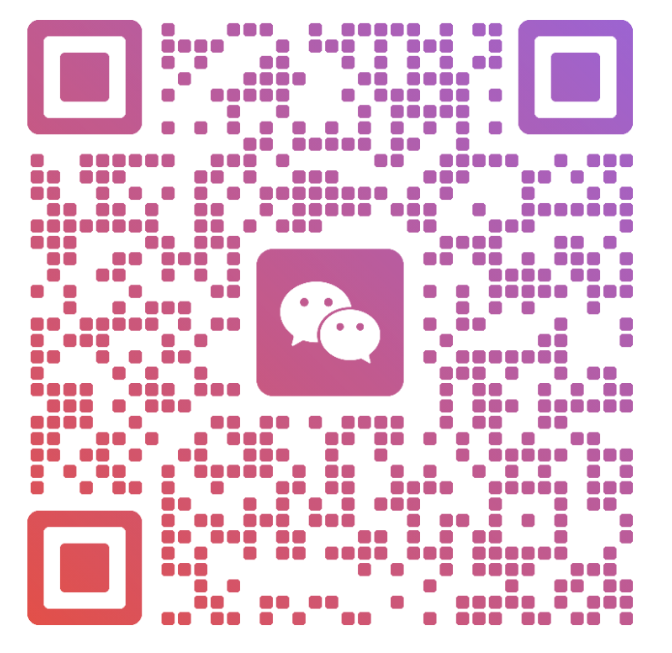
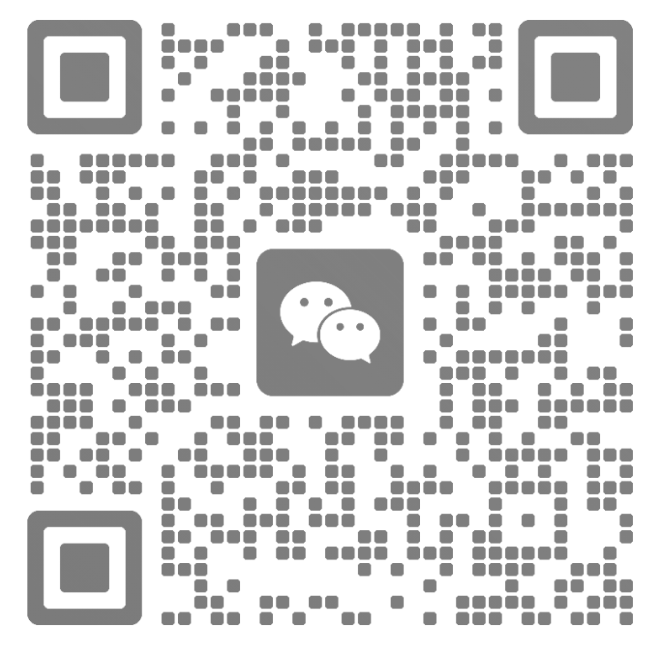
perf: 图片本地化与 WebP 压缩，首屏体积降79%
图片问题占dist 总体积的 95%，是 Cloudflare 上访问慢的主因。

- 三张基地大图 1706x1279 转 WebP 1280x960，2960KB -> 369KB
- 首屏/About 图从 Pexels 外链改为本地 WebP，去掉跨境请求
- 二维码保持原始像素尺寸（缩到 512px 会扫不出来），仅转灰度
  + optimize，602KB -> 148KB
- 首屏图加 fetchPriority="high"，其余图加 loading="lazy" 与显式
  width/height
- index.html：lang en -> zh-CN；og:image 从 bolt.new 默认图换成本地图
  （此前分享到微信会带 Bolt 标识）；favicon 从 404 的 /vite.svg 改为
  自建 SVG；补充 title/description/keywords/og 标签；预加载首屏图
- 移除未被引用的 @supabase/supabase-js 依赖

dist 3.7MB -> 773KB。typecheck 与 build 均通过。

diff --git a/index.html b/index.html
@@ -1,13 +1,31 @@
 <!doctype html>
-<html lang="en">
+<html lang="zh-CN">
   <head>
     <meta charset="UTF-8" />
-    <link rel="icon" type="image/svg+xml" href="/vite.svg" />
+    <link rel="icon" type="image/svg+xml" href="/favicon.svg" />
     <meta name="viewport" content="width=device-width, initial-scale=1.0" />
-    <title>Nbyte Air Corporate Website</title>
-    <meta property="og:image" content="https://bolt.new/static/og_default.png" />
+    <title>新字节航空 Nbyte Air | 潍坊 CAAC 无人机驾驶员培训基地</title>
+    <meta
+      name="description"
+      content="新字节航空是位于山东潍坊的专业多旋翼无人机驾驶员培训基地，提供 CAAC 执照培训、真机实操、考证推荐与无人机设备组装出口服务。"
+    />
+    <meta name="keywords" content="无人机培训,CAAC 执照,多旋翼,无人机驾驶员,潍坊,新字节航空,Nbyte Air" />
+    <link rel="preload" as="image" href="/images/hero.webp" fetchpriority="high" />
+    <meta property="og:type" content="website" />
+    <meta property="og:site_name" content="新字节航空 Nbyte Air" />
+    <meta property="og:title" content="新字节航空 |专业的多旋翼无人机驾驶员培训基地" />
+    <meta
+      property="og:description"
+      content="立足潍坊，辐射全国。从理论到实操，助您掌握低空经济核心技能。"
+    />
+    <meta property="og:image" content="/images/hero.webp" />
     <meta name="twitter:card" content="summary_large_image" />
-    <meta name="twitter:image" content="https://bolt.new/static/og_default.png" />
+    <meta name="twitter:title" content="新字节航空 | 专业的多旋翼无人机驾驶员培训基地" />
+    <meta
+      name="twitter:description"
+      content="立足潍坊，辐射全国。从理论到实操，助您掌握低空经济核心技能。"
+    />
+    <meta name="twitter:image" content="/images/hero.webp" />
   </head>
   <body>
     <div id="root"></div>

diff --git a/src/components/Base.tsx b/src/components/Base.tsx
@@ -16,6 +16,10 @@ export default function Base() {
                   <img
                     src={baseImages[0].src}
                     alt={baseImages[0].alt}
+                    width={1280}
+                    height={960}
+                    loading="lazy"
+                    decoding="async"
                     className="h-56 w-full object-cover sm:h-full sm:min-h-[420px]"
                   />
                 </div>
@@ -30,6 +34,10 @@ export default function Base() {
                   <img
                     src={baseImages[1].src}
                     alt={baseImages[1].alt}
+                    width={1280}
+                    height={960}
+                    loading="lazy"
+                    decoding="async"
                     className="h-40 w-full object-cover sm:h-[200px]"
                   />
                 </div>
@@ -44,6 +52,10 @@ export default function Base() {
                   <img
                     src={baseImages[2].src}
                     alt={baseImages[2].alt}
+                    width={1280}
+                    height={960}
+                    loading="lazy"
+                    decoding="async"
                     className="h-40 w-full object-cover sm:h-[200px]"
                   />
                 </div>

diff --git a/src/data.ts b/src/data.ts
@@ -21,17 +21,15 @@ export const navLinks = [
   { label: '联系我们', id: 'contact' },
 ];
 
-export const heroImage =
-  'https://images.pexels.com/photos/442589/pexels-photo-442589.jpeg?auto=compress&cs=tinysrgb&w=1920';
+export const heroImage = '/images/hero.webp';
 
 export const baseImages = [
-  { src: '/images/base-practice.jpg', alt: '户外真机实操训练', caption: '户外真机实操训练' },
-  { src: '/images/base-flight.jpg', alt: '实飞演示与考核', caption: '实飞演示与考核' },
-  { src: '/images/base-classroom.jpg', alt: '理论授课与设备装调', caption: '理论授课与设备装调' },
+  { src: '/images/base-practice.webp', alt: '户外真机实操训练', caption: '户外真机实操训练', loading: 'lazy' },
+  { src: '/images/base-flight.webp', alt: '实飞演示与考核', caption: '实飞演示与考核', loading: 'lazy' },
+  { src: '/images/base-classroom.webp', alt: '理论授课与设备装调', caption: '理论授课与设备装调', loading: 'lazy' },
 ];
 
-export const aboutImage =
-  'https://images.pexels.com/photos/8459532/pexels-photo-8459532.jpeg?auto=compress&cs=tinysrgb&w=1280';
+export const aboutImage = '/images/about.webp';
 
 export type CourseModule = {
   icon: typeof BookOpen;

diff --git a/src/components/About.tsx b/src/components/About.tsx
@@ -49,6 +49,10 @@ export default function About() {
               <img
                 src={aboutImage}
                 alt="无人机培训实操"
+                width={1080}
+                height={720}
+                loading="lazy"
+                decoding="async"
                 className="h-[400px] w-full object-cover lg:h-[520px]"
               />
               <div className="absolute inset-0 bg-gradient-to-br from-nbyte-900/20 to-transparent" />

diff --git a/src/components/Hero.tsx b/src/components/Hero.tsx
@@ -13,6 +13,10 @@ export default function Hero() {
         <img
           src={heroImage}
           alt="无人机飞行训练"
+          width={1600}
+          height={1067}
+          fetchPriority="high"
+          decoding="async"
           className="h-full w-full object-cover"
         />
         <div className="absolute inset-0 bg-gradient-to-r from-nbyte-950/90 via-nbyte-900/70 to-nbyte-900/30" />

diff --git a/src/components/Contact.tsx b/src/components/Contact.tsx
@@ -93,6 +93,8 @@ export default function Contact() {
                     <img
                       src={qr.image}
                       alt={qr.label}
+                      loading="lazy"
+                      decoding="async"
                       className="h-full w-full object-contain"
                     />
                   </div>
